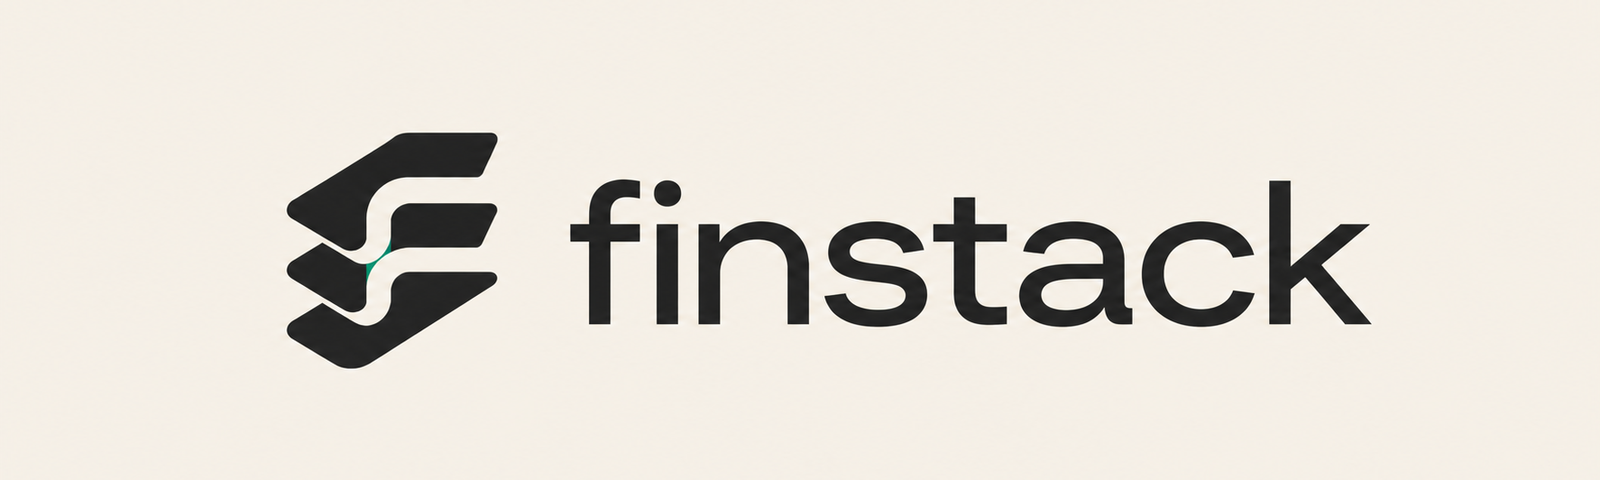
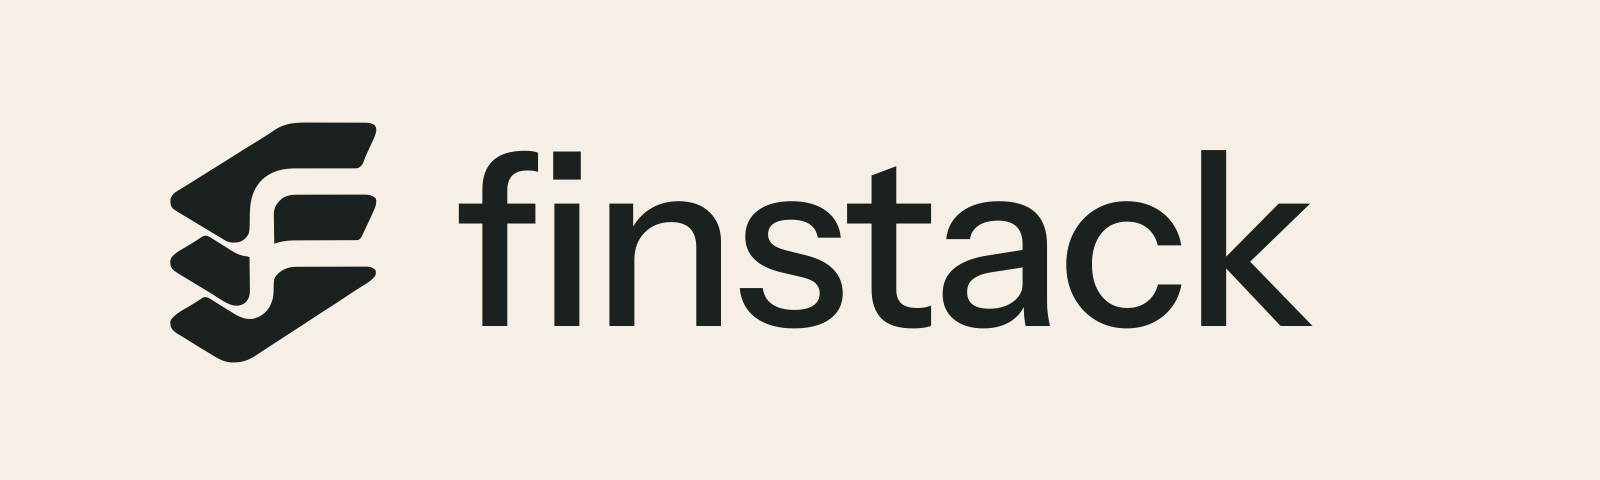
feat: unify monochrome brand system

Changed region(s): [[0.0938, 0.25, 0.875, 0.7812]]

diff --git a/engine/src/mcp/server.ts b/engine/src/mcp/server.ts
@@ -25,7 +25,7 @@ import { FinstackError } from '../errors';
 
 // The plugin host displays this. It is asserted equal to the repository VERSION
 // by scripts/check-docs.ts so it cannot silently drift.
-export const SERVER_VERSION = '0.7.3';
+export const SERVER_VERSION = '0.7.4';
 
 // The protocol revision to fall back to when a client does not name one.
 const DEFAULT_PROTOCOL_VERSION = '2025-06-18';

diff --git a/assets/README.md b/assets/README.md
@@ -2,9 +2,11 @@
 
 ## Brand System
 
-Warm bone, graphite, and deep emerald. The stacked mark expresses finstack's
-three defining ideas: layered evidence, opposing arguments, and a single
-decision path through the middle.
+Warm bone and graphite form the primary identity. Deep emerald is reserved for
+functional signals such as positive performance and executable actions; it is
+not part of the logo. The stacked mark expresses finstack's three defining
+ideas: layered evidence, opposing arguments, and a single decision path through
+the middle.
 
 ## Files
 
@@ -15,11 +17,21 @@ decision path through the middle.
 
 ### wordmark.png (1600×480)
 - PNG format, warm-bone background
-- Horizontal lockup of finstack wordmark
+- Horizontal lockup with the monochrome mark and custom-spaced Instrument Sans
+  Medium letterforms
 - Used only in wide documentation headers, never as a plugin logo
 
+### wordmark.svg (1600×480 viewBox)
+- Primary scalable horizontal lockup on a transparent background
+- Letterforms are converted to outlines, so no font is required at runtime
+- Instrument Sans is licensed under the SIL Open Font License 1.1
+
+### wordmark-reversed.svg (1600×480 viewBox)
+- White monochrome lockup for dark surfaces
+- Shares the exact geometry of the primary wordmark
+
 ### Screenshots (1600×900)
-- `screenshot-portfolio.png`: Portfolio view with risk metrics
+- `screenshot-portfolio.png`: Portfolio view with the current reversed wordmark
 - `screenshot-judge.png`: Bull vs Bear adversarial exchange
 - `screenshot-alpha.png`: Real vs shadow comparison chart
 - `screenshot-cascade.png`: Multi-step chain reaction analysis

diff --git a/README.md b/README.md
@@ -1,8 +1,12 @@
-# finstack
+<h1 align="center">
+  <img src="assets/wordmark.png" alt="finstack" width="720">
+</h1>
 
-[![CI](https://github.com/kohoj/finstack/actions/workflows/ci.yml/badge.svg)](https://github.com/kohoj/finstack/actions/workflows/ci.yml)
-[![License: MIT](https://img.shields.io/badge/license-MIT-blue.svg)](LICENSE)
-[![Bun](https://img.shields.io/badge/bun-1.0+-f472b6.svg)](https://bun.sh)
+<p align="center">
+  <a href="https://github.com/kohoj/finstack/actions/workflows/ci.yml"><img src="https://github.com/kohoj/finstack/actions/workflows/ci.yml/badge.svg" alt="CI"></a>
+  <a href="LICENSE"><img src="https://img.shields.io/badge/license-MIT-blue.svg" alt="MIT License"></a>
+  <a href="https://bun.sh"><img src="https://img.shields.io/badge/bun-1.0+-f472b6.svg" alt="Bun 1.0+"></a>
+</p>
 
 **An operating system for investment thinking.**
 

diff --git a/CHANGELOG.md b/CHANGELOG.md
@@ -7,6 +7,15 @@ and this project adheres to [Semantic Versioning](https://semver.org/spec/v2.0.0
 
 ## [Unreleased]
 
+## [0.7.4] — 2026-08-26
+
+### Changed
+
+**Unified monochrome identity.** Rebuilt the horizontal wordmark with
+custom-spaced Instrument Sans Medium outlines, added primary and reversed SVG
+lockups, changed the Codex brand color to graphite, and updated every repository
+surface that displayed the previous wordmark.
+
 ## [0.7.3] — 2026-08-26
 
 ### Changed
